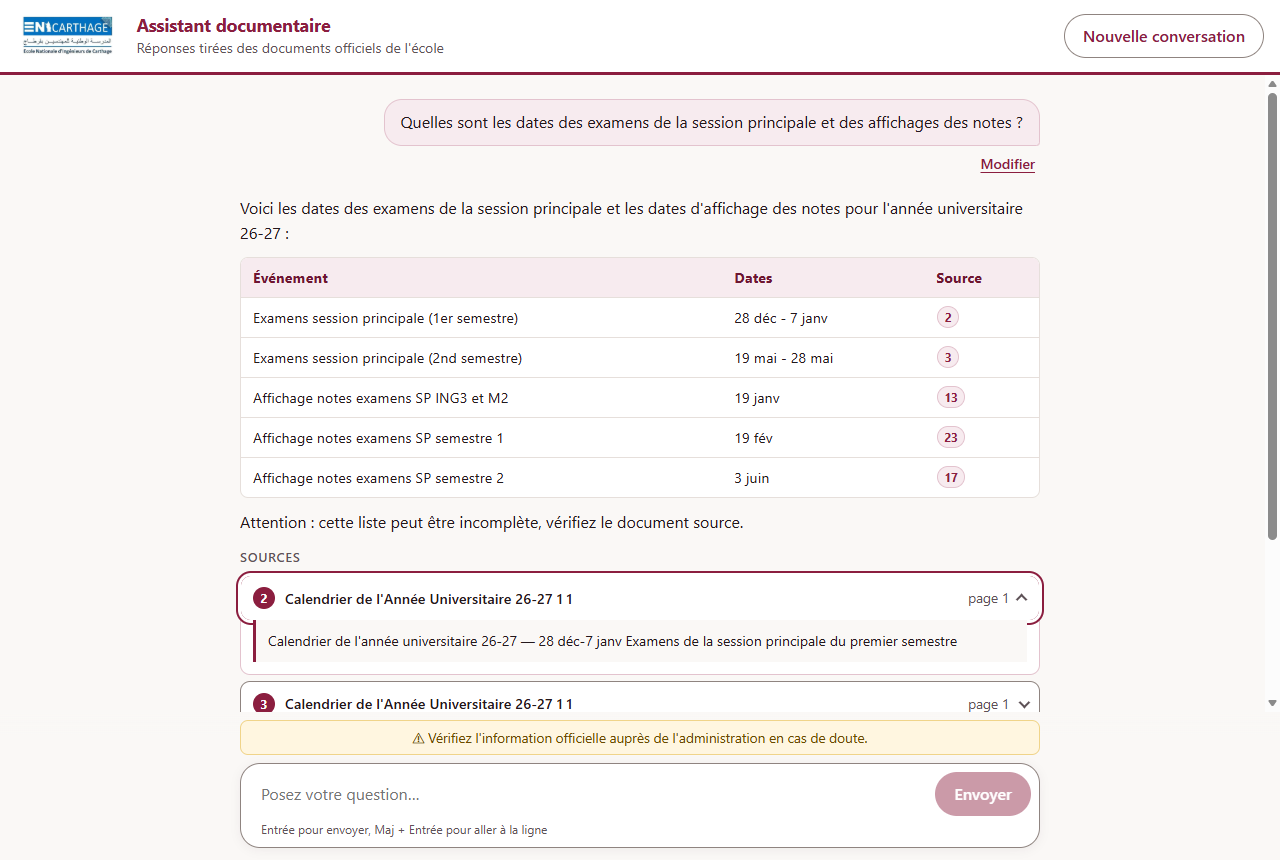
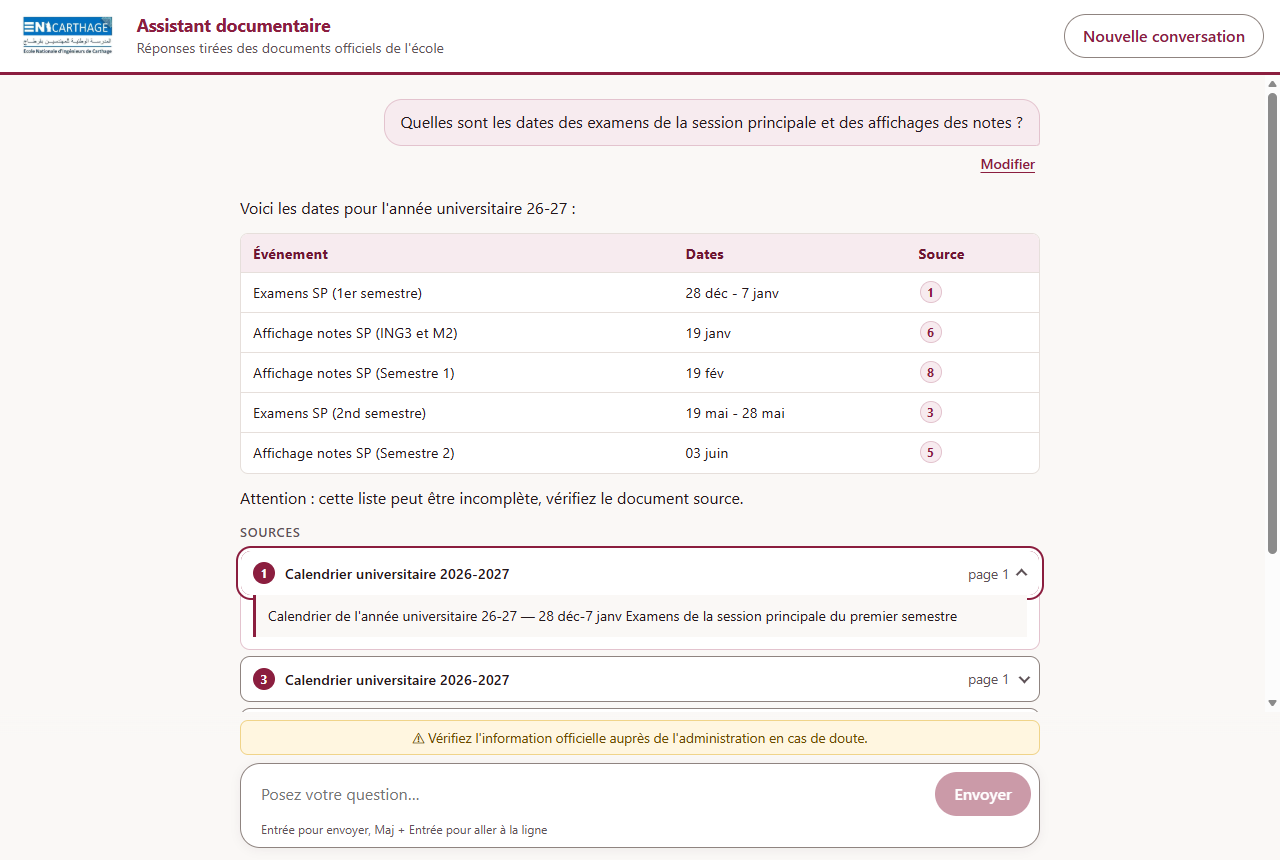
Show readable document titles on sources
- documents_status.json: a "titre" for each of the 12 documents
  ("Calendrier universitaire 2026-2027", "Plan d'études Informatique",
  "Convention de stage PFE (anglais)"...), still edited by hand. The
  notes at the top explain it; a title change only needs an API restart.
- api.py: titles are read once at startup (load_titles). Each source's
  `source` is the title, or the file name if the title is missing or
  empty; a new `file` field always has the file name. A broken status
  file gives no titles and a warning instead of stopping the API, and
  documents without a title are listed in the startup log.
- frontend: source cards and citation labels/tooltips show the title
  (sourceTitle.js), the file name is in the card tooltip; without a
  title the file name is made readable, as before.
- tests: title returned, file-name fallback, missing/empty titles,
  broken file, every indexed document has a title. 82 passed.
  Checked in headless Edge with a real answer; docs/screenshot.png
  replaced (it showed file names).
- README: how to fill "titre" when adding a document, API fields.

diff --git a/frontend/src/components/Sources.jsx b/frontend/src/components/Sources.jsx
@@ -1,9 +1,5 @@
 import { useId } from "react";
-
-// "PE_Informatique_Janvier_2026.pdf" -> "PE Informatique Janvier 2026"
-function documentName(file) {
-  return file.replace(/\.(pdf|docx)$/i, "").replace(/_+/g, " ").trim();
-}
+import { sourceTitle } from "../sourceTitle.js";
 
 export default function Sources({ ref, sources, open, onToggle }) {
   const baseId = useId();
@@ -25,7 +21,7 @@ export default function Sources({ ref, sources, open, onToggle }) {
                 onClick={() => onToggle(s.n)}
               >
                 <span className="source-n" aria-hidden="true">{s.n}</span>
-                <span className="source-doc" title={s.source}>{documentName(s.source)}</span>
+                <span className="source-doc" title={s.file || s.source}>{sourceTitle(s)}</span>
                 <span className="source-page">page {s.page}</span>
                 <span className="source-chevron" aria-hidden="true" />
               </button>

diff --git a/frontend/src/components/Turn.jsx b/frontend/src/components/Turn.jsx
@@ -3,6 +3,7 @@ import Markdown from "react-markdown";
 import remarkGfm from "remark-gfm";
 import Feedback from "./Feedback.jsx";
 import Sources from "./Sources.jsx";
+import { sourceTitle } from "../sourceTitle.js";
 
 // "[2]" in the answer becomes a link "#cite-2", rendered as a button that opens source 2.
 // Numbers without a matching source are left as plain text.
@@ -58,8 +59,8 @@ export default function Turn({ turn, beingEdited, onEdit, onRetry }) {
             type="button"
             className="cite"
             onClick={() => openCitation(n)}
-            aria-label={`Source ${n} : ${source.source}, page ${source.page}`}
-            title={`${source.source}, page ${source.page}`}
+            aria-label={`Source ${n} : ${sourceTitle(source)}, page ${source.page}`}
+            title={`${sourceTitle(source)}, page ${source.page}`}
           >
             {n}
           </button>

diff --git a/frontend/src/sourceTitle.js b/frontend/src/sourceTitle.js
@@ -1,0 +1,8 @@
+// The name shown for a source, in the source cards and on the citations.
+// The API sends the document's "titre" (documents_status.json) in `source`, or the file name when the
+// document has no title; in that case the file name is made readable:
+// "PE_Informatique_Janvier_2026.pdf" -> "PE Informatique Janvier 2026".
+export function sourceTitle(source) {
+  if (source.file && source.source !== source.file) return source.source;
+  return source.source.replace(/\.(pdf|docx)$/i, "").replace(/_+/g, " ").trim();
+}

diff --git a/api.py b/api.py
@@ -30,12 +30,33 @@ ALLOWED_ORIGINS = [o.strip() for o in os.environ.get("ALLOWED_ORIGINS", "http://
 FEEDBACK_FILE = Path(os.environ.get("FEEDBACK_FILE", "feedback.jsonl"))
 RATE_LIMIT = 20          # requests...
 RATE_WINDOW = 60.0       # ...per this many seconds, per client IP
+STATUS_FILE = Path("documents_status.json")   # edited by hand; its "titre" fields name the sources
 
 INTERNAL_ERROR = "Une erreur interne est survenue. Réessayez plus tard."
 TOO_MANY = "Trop de requêtes. Attendez une minute puis réessayez."
 
 # filled once by lifespan(): the modules of the pipeline (they load the model and the embeddings on import)
+# and the documents' titles
 pipeline = {}
+
+
+def load_titles(path=STATUS_FILE):
+    """{file name: title} from the "titre" fields of documents_status.json.
+    A missing or empty title is left out: the file name is shown instead. A broken file gives no titles
+    (and a warning in the logs) rather than stopping the API."""
+    try:
+        documents = json.loads(path.read_text(encoding="utf-8")).get("documents", {})
+    except FileNotFoundError:
+        return {}
+    except (json.JSONDecodeError, UnicodeDecodeError, AttributeError) as e:
+        logger.warning("%s cannot be read (%s): file names are shown instead of titles", path, e)
+        return {}
+    titles = {}
+    for name, info in documents.items():
+        title = info.get("titre") if isinstance(info, dict) else None
+        if isinstance(title, str) and title.strip():
+            titles[name] = title.strip()
+    return titles
 
 
 @asynccontextmanager
@@ -47,9 +68,12 @@ async def lifespan(app):
     import build_prompt
     import followup
 
-    pipeline.update(ask=ask, build_prompt=build_prompt, followup=followup)
-    logger.info("Pipeline loaded: %d chunks, embeddings %s", len(build_prompt.chunks),
-                build_prompt.embeddings.shape)
+    pipeline.update(ask=ask, build_prompt=build_prompt, followup=followup, titles=load_titles())
+    logger.info("Pipeline loaded: %d chunks, embeddings %s, %d document titles", len(build_prompt.chunks),
+                build_prompt.embeddings.shape, len(pipeline["titles"]))
+    untitled = sorted({c["source"] for c in build_prompt.chunks} - set(pipeline["titles"]))
+    if untitled:
+        logger.warning("No \"titre\" in %s for: %s (file name shown instead)", STATUS_FILE, ", ".join(untitled))
     yield
     pipeline.clear()
 
@@ -117,7 +141,8 @@ class AskRequest(BaseModel):
 
 class Source(BaseModel):
     n: int          # the number cited in the answer: [n]
-    source: str
+    source: str     # readable title from documents_status.json ("titre"), or the file name if it has none
+    file: str       # the file name in documents/
     page: int
     text: str
 
@@ -163,6 +188,7 @@ def health():
 @app.post("/ask", response_model=AskResponse, dependencies=[Depends(rate_limited)])
 def ask_endpoint(body: AskRequest):
     bp, ask, followup = pipeline["build_prompt"], pipeline["ask"], pipeline["followup"]
+    titles = pipeline.get("titles", {})
     try:
         answer, sources = followup.ask_with_context(body.question, body.previous or None)
     except ask.GeminiUnavailable as e:
@@ -175,7 +201,8 @@ def ask_endpoint(body: AskRequest):
     numbers = cited_numbers(answer, len(sources))
     return AskResponse(
         answer=answer,
-        sources=[Source(n=n, source=c["source"], page=c["page"], text=c["text"])
+        sources=[Source(n=n, source=titles.get(c["source"], c["source"]), file=c["source"],
+                        page=c["page"], text=c["text"])
                  for n, c in zip(numbers, sources)],
         corrected_query=corrected if corrected != body.question else None,
     )

diff --git a/tests/test_api.py b/tests/test_api.py
@@ -63,9 +63,46 @@ def test_ask(client, fake_gemini):
     # [1] is a valid citation, [99] is out of range and dropped
     assert [s["n"] for s in body["sources"]] == [1]
     source = body["sources"][0]
-    assert set(source) == {"n", "source", "page", "text"}
+    assert set(source) == {"n", "source", "file", "page", "text"}
     assert source["text"] in fake_gemini[0]     # the cited chunk is the first excerpt of the prompt
     assert "corrected_query" in body
+
+
+def test_sources_show_the_title_from_documents_status(client, fake_gemini):
+    r = client.post("/ask", json={"question": "quand est le forum des entreprises ?"})
+    source = r.json()["sources"][0]
+    assert source["file"] == "Calendrier_de_l'Année_Universitaire_26-27_1_1.pdf"
+    assert source["source"] == api.load_titles()[source["file"]] == "Calendrier universitaire 2026-2027"
+
+
+def test_sources_fall_back_to_the_file_name(client, fake_gemini, monkeypatch):
+    monkeypatch.setitem(api.pipeline, "titles", {})
+    source = client.post("/ask", json={"question": "quand est le forum des entreprises ?"}).json()["sources"][0]
+    assert source["source"] == source["file"]
+
+
+def test_load_titles_skips_missing_and_empty_titles(tmp_path):
+    path = tmp_path / "status.json"
+    path.write_text(json.dumps({"documents": {
+        "a.pdf": {"titre": "  Calendrier  ", "status": "actuel"},
+        "b.pdf": {"status": "actuel"},
+        "c.pdf": {"titre": "", "status": "actuel"},
+        "d.pdf": {"titre": None},
+    }}), encoding="utf-8")
+    assert api.load_titles(path) == {"a.pdf": "Calendrier"}
+
+
+@pytest.mark.parametrize("content", ["{ not json", "[]", ""])
+def test_load_titles_survives_a_broken_file(tmp_path, content):
+    path = tmp_path / "status.json"
+    path.write_text(content, encoding="utf-8")
+    assert api.load_titles(path) == {}
+    assert api.load_titles(tmp_path / "missing.json") == {}
+
+
+def test_every_indexed_document_has_a_title(client):
+    files = {c["source"] for c in api.pipeline["build_prompt"].chunks}
+    assert files <= set(api.pipeline["titles"]), files - set(api.pipeline["titles"])
 
 
 def test_ask_corrected_query(client, fake_gemini):

diff --git a/README.md b/README.md
@@ -4,7 +4,7 @@ A chat assistant that answers students' questions from the school's official doc
 (study plans, academic calendar, student guide, internship forms). Every answer **cites its source**
 (file and page), and the assistant **refuses to answer** when the documents don't contain the information.
 
-![The React interface answering with a table; citation [2] has opened its source](docs/screenshot.png)
+![The React interface answering with a table; citation [1] has opened its source, shown by its title](docs/screenshot.png)
 
 ## How it works
 
@@ -107,10 +107,12 @@ also try each endpoint: http://localhost:8000/docs
 | Method | Path | Body | Response |
 |---|---|---|---|
 | GET | `/health` | none | `{status, chunks, model_loaded}` |
-| POST | `/ask` | `{question, previous}`: question 1 to 500 characters, `previous` = the student's last question or `null` | `{answer, sources: [{n, source, page, text}], corrected_query}` |
+| POST | `/ask` | `{question, previous}`: question 1 to 500 characters, `previous` = the student's last question or `null` | `{answer, sources: [{n, source, file, page, text}], corrected_query}` |
 | POST | `/feedback` | `{question, answer, comment}` | `201 {saved: true}`. Adds a timestamped JSON line to `feedback.jsonl` (not in git) |
 
 - `sources[].n` is the `[n]` number cited in the answer. Only the excerpts that the answer cites are returned.
+- `sources[].source` is the document's readable title (`titre` in `documents_status.json`), or its file
+  name when it has none; `sources[].file` is always the file name.
 - `corrected_query` is the question after the CAPS/accent/typo fixes, or `null` if nothing changed.
 - Errors: `422` invalid body, `429` more than 20 requests per minute from the same IP, `503` Gemini
   unavailable (limit reached or servers busy; `detail` is a French message to show to the student),
@@ -145,7 +147,8 @@ python -m pytest -q
 `frontend/` is a Vite + React app that calls the API. It never talks to Gemini directly.
 
 - Chat with answers rendered as Markdown, including tables (`react-markdown` + `remark-gfm`).
-- Citations `[n]` are buttons: they open source card n (document, page, excerpt) and move the focus to it.
+- Citations `[n]` are buttons: they open source card n (document title, page, excerpt) and move the focus
+  to it. Cards and citations show the document's `titre`; the file name is in the tooltip.
 - **Arrêter** while an answer is being generated (`AbortController`), **Modifier** on the last question
   (puts it back in the input; sending replaces the last exchange), **Réessayer** after an error.
 - Follow-ups: each request sends `previous`, the last question that got an answer.
@@ -173,30 +176,38 @@ Production build: `npm run build` (output in `frontend/dist/`, not in git).
 
 ## Adding or archiving a document
 
-`documents_status.json` says, for each file in `documents/`, whether it is still in force.
-It is edited by hand; no Python change is needed.
+`documents_status.json` says, for each file in `documents/`, how to show it and whether it is still in
+force. It is edited by hand; no Python change is needed.
 
 ```json
 "Plaquette_Dep_Informatique_2017.pdf": {
+  "titre": "Plaquette du département Informatique (2017)",
   "status": "archive",
   "annee_scolaire": "2017",
   "note": "Describes 3rd-year specialities that no longer exist."
 }
 ```
 
-- `"actuel"`: used to answer.
-- `"archive"`: left out of the search, **unless** the question asks about the past
-  (`ancien`, `avant`, `archive`, `précédent`, `en 2017`...). When an archived excerpt is used,
+- `titre`: the name the student sees on source cards and citations, instead of the file name.
+  Short and explicit: the kind of document, the programme, the year if it matters
+  ("Calendrier universitaire 2026-2027", "Plan d'études Informatique", "Convention de stage PFE (anglais)").
+  Optional: without it the file name is shown, and the API logs a warning at startup.
+- `status`: `"actuel"` = used to answer. `"archive"` = left out of the search, **unless** the question asks
+  about the past (`ancien`, `avant`, `archive`, `précédent`, `en 2017`...). When an archived excerpt is used,
   the answer says that it comes from an old document.
 
-**Add a document:** copy the file into `documents/`, add an entry in `documents_status.json`,
-then run `python chunk_documents.py` and `python embed_chunks.py`.
+**Add a document:** copy the file into `documents/`, add an entry in `documents_status.json` with its
+`titre` and `status` (copy an existing entry and keep the file name as the key, exactly), then run
+`python chunk_documents.py` and `python embed_chunks.py`.
 A file missing from `documents_status.json` is treated as `actuel` and a warning is printed.
 
 **Archive a document** (for example when next year's calendar arrives): change its `status` to
 `"archive"` and run `python chunk_documents.py`, then `python embed_chunks.py`.
 
-Restart the Streamlit app after any change: the chunks are loaded once at startup.
+**Rename a document for students:** change its `titre`, then restart the API. Nothing to re-run.
+
+Restart the API (or the Streamlit app) after any change: everything is loaded once at startup.
+The Streamlit app still shows file names.
 
 ## Evaluation results
 
